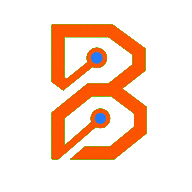
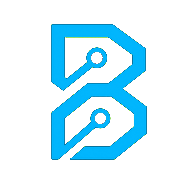
turn the brand mark blue instead of replacing it
The filled square was the wrong reading — the shape is the brand, and what was
wanted was the same mark in blue. The design package's symbol is hue-shifted
to the site's accent rather than redrawn: a flat colour swap would have left a
ragged outline, since most of the mark's edge is anti-aliased and those pixels
are part orange and part page. Moving the hue and keeping each pixel's own
saturation and lightness carries that gradient across.

Its accent dots were already blue and would have vanished into a blue trace,
so they went white in the same pass and still read as holes.

brand-symbol-orange.png is the untouched original, so this is one command to
undo. The square SVG is gone.

Changed region(s): [[0.25, 0.125, 0.7812, 0.8438]]

diff --git a/frontend/src/components/Header.tsx b/frontend/src/components/Header.tsx
@@ -568,15 +568,15 @@ const Header: React.FC = () => {
       <div className="mn-site-width">
         <div className="mn-nav-row justify-between gap-4">
           {/* Logo — Belgomla MarkBag (geometric B with bag handle) + wordmark */}
-          {/* Drawn from the same artwork as the app icon rather than the
-              design package's outlined symbol, so the mark in the header and
-              the one on a home screen are one logo instead of two drawings of
-              the same letter. SVG, because it is rendered at 48px here and
-              37px in the dashboard and a raster mark was soft at both. */}
+          {/* The design package's symbol, hue-shifted from its orange to the
+              site's accent blue rather than redrawn: the shape is the brand.
+              Its accent dots went white in the same pass, since blue dots on
+              a blue trace are no dots at all. brand-symbol-orange.png beside
+              it is the original, kept so the change is one command to undo. */}
           <Link to="/" className="mn-brand" aria-label={t("brand.homeLabel", "Belgomla home")}>
             <img
               className="mn-brand-mark"
-              src="/manus/brand-symbol.svg"
+              src="/manus/brand-symbol.webp"
               alt=""
               width={48}
               height={48}
